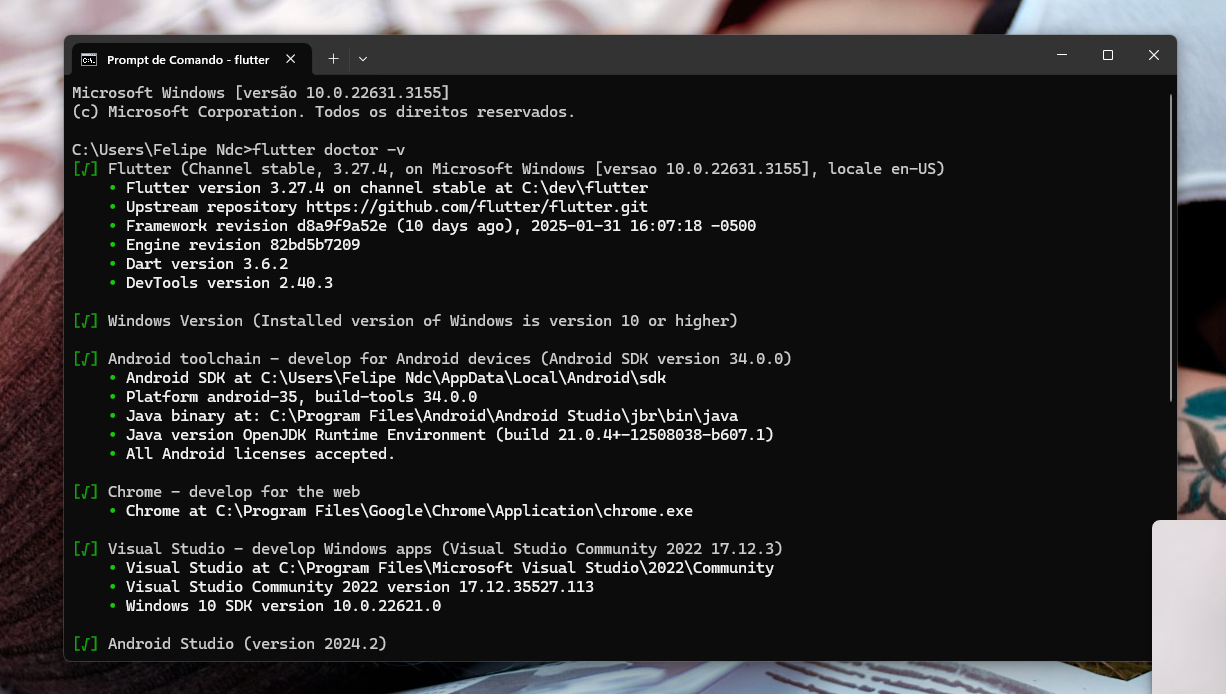
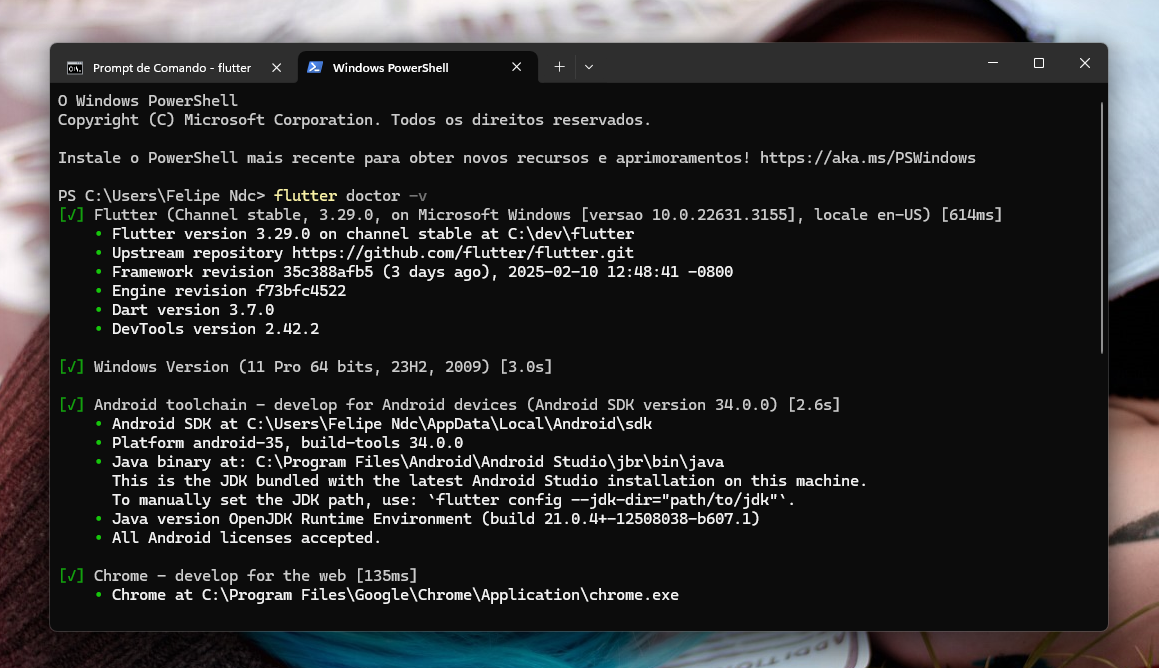
Update Flutter to 3.29.0 and Dart to 3.7.0

diff --git a/README.md b/README.md
@@ -59,11 +59,11 @@ These instructions will help you get a copy of this project up and running on yo
 
 
 
-#### Flutter 3.27.4:
+#### Flutter 3.29.0:
 - Channel: `Stable`
-- Flutter version: `3.27.4 x64`
-- Dart version: `3.6.2 (stable) (05/02/2025) for "windows_x64"`
-- File name:  `flutter_windows_3.27.4-stable.zip` 
+- Flutter version: `3.29.0 x64`
+- Dart version: `3.7.0 (stable) (12/02/2025) for "windows_x64"`
+- File name:  `flutter_windows_3.29.0-stable.zip` 
 - LINK: https://docs.flutter.dev/release/archive
 - How to install Flutter and set it up: https://flutter.dev/docs/get-started/install
 
